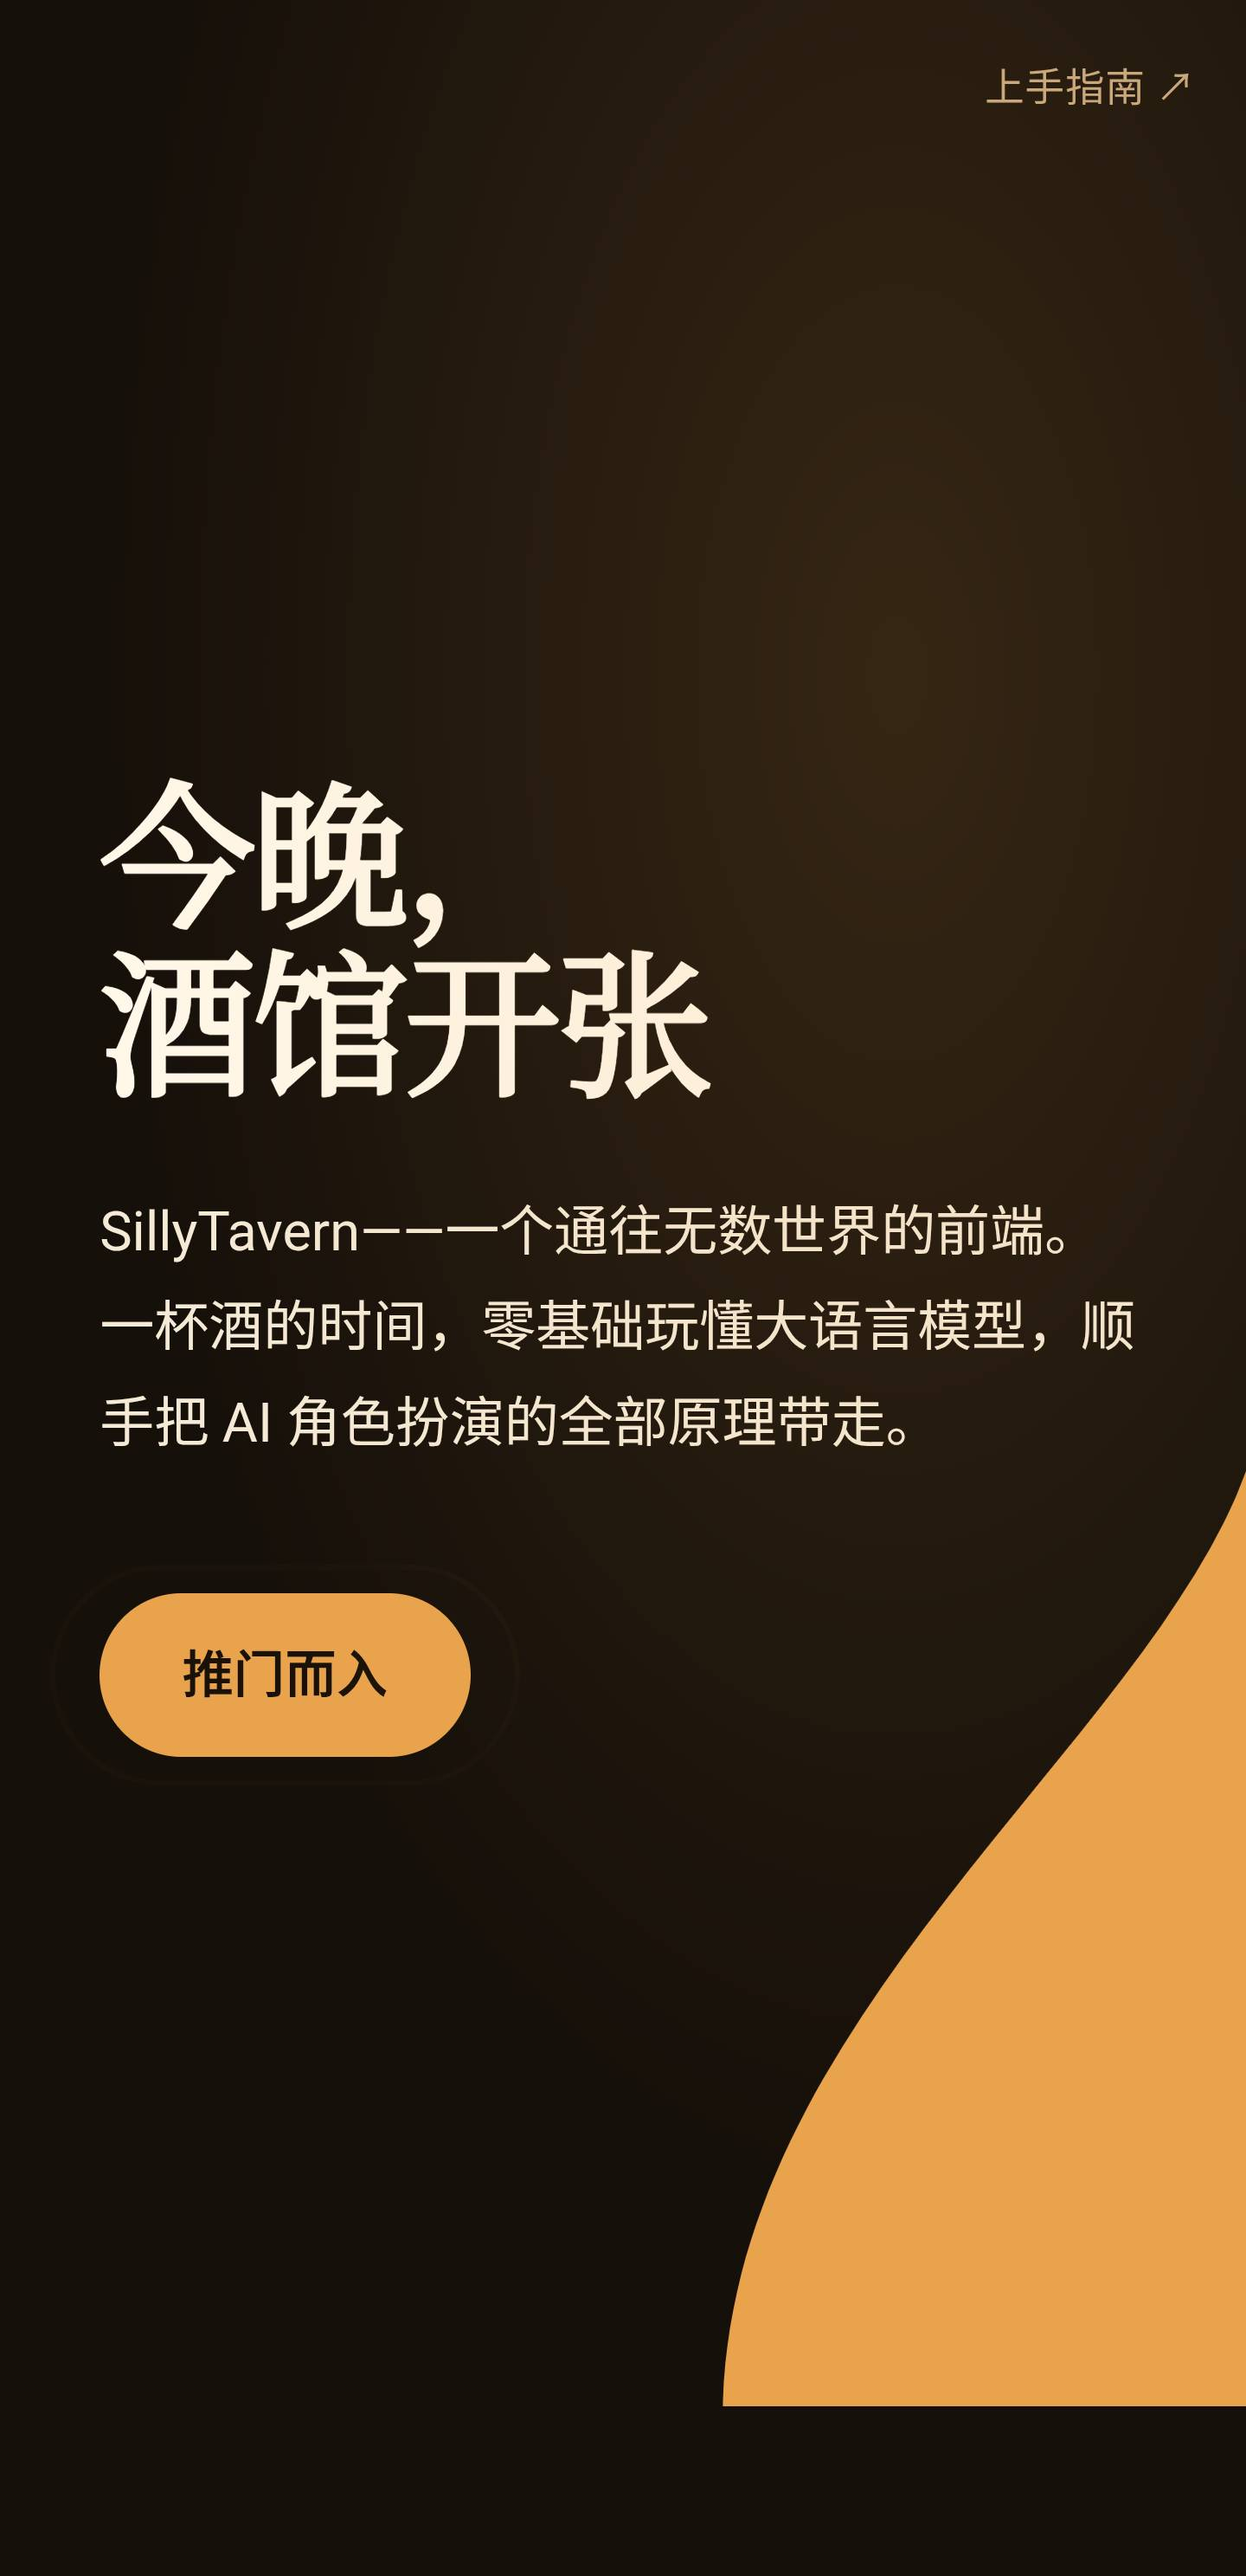
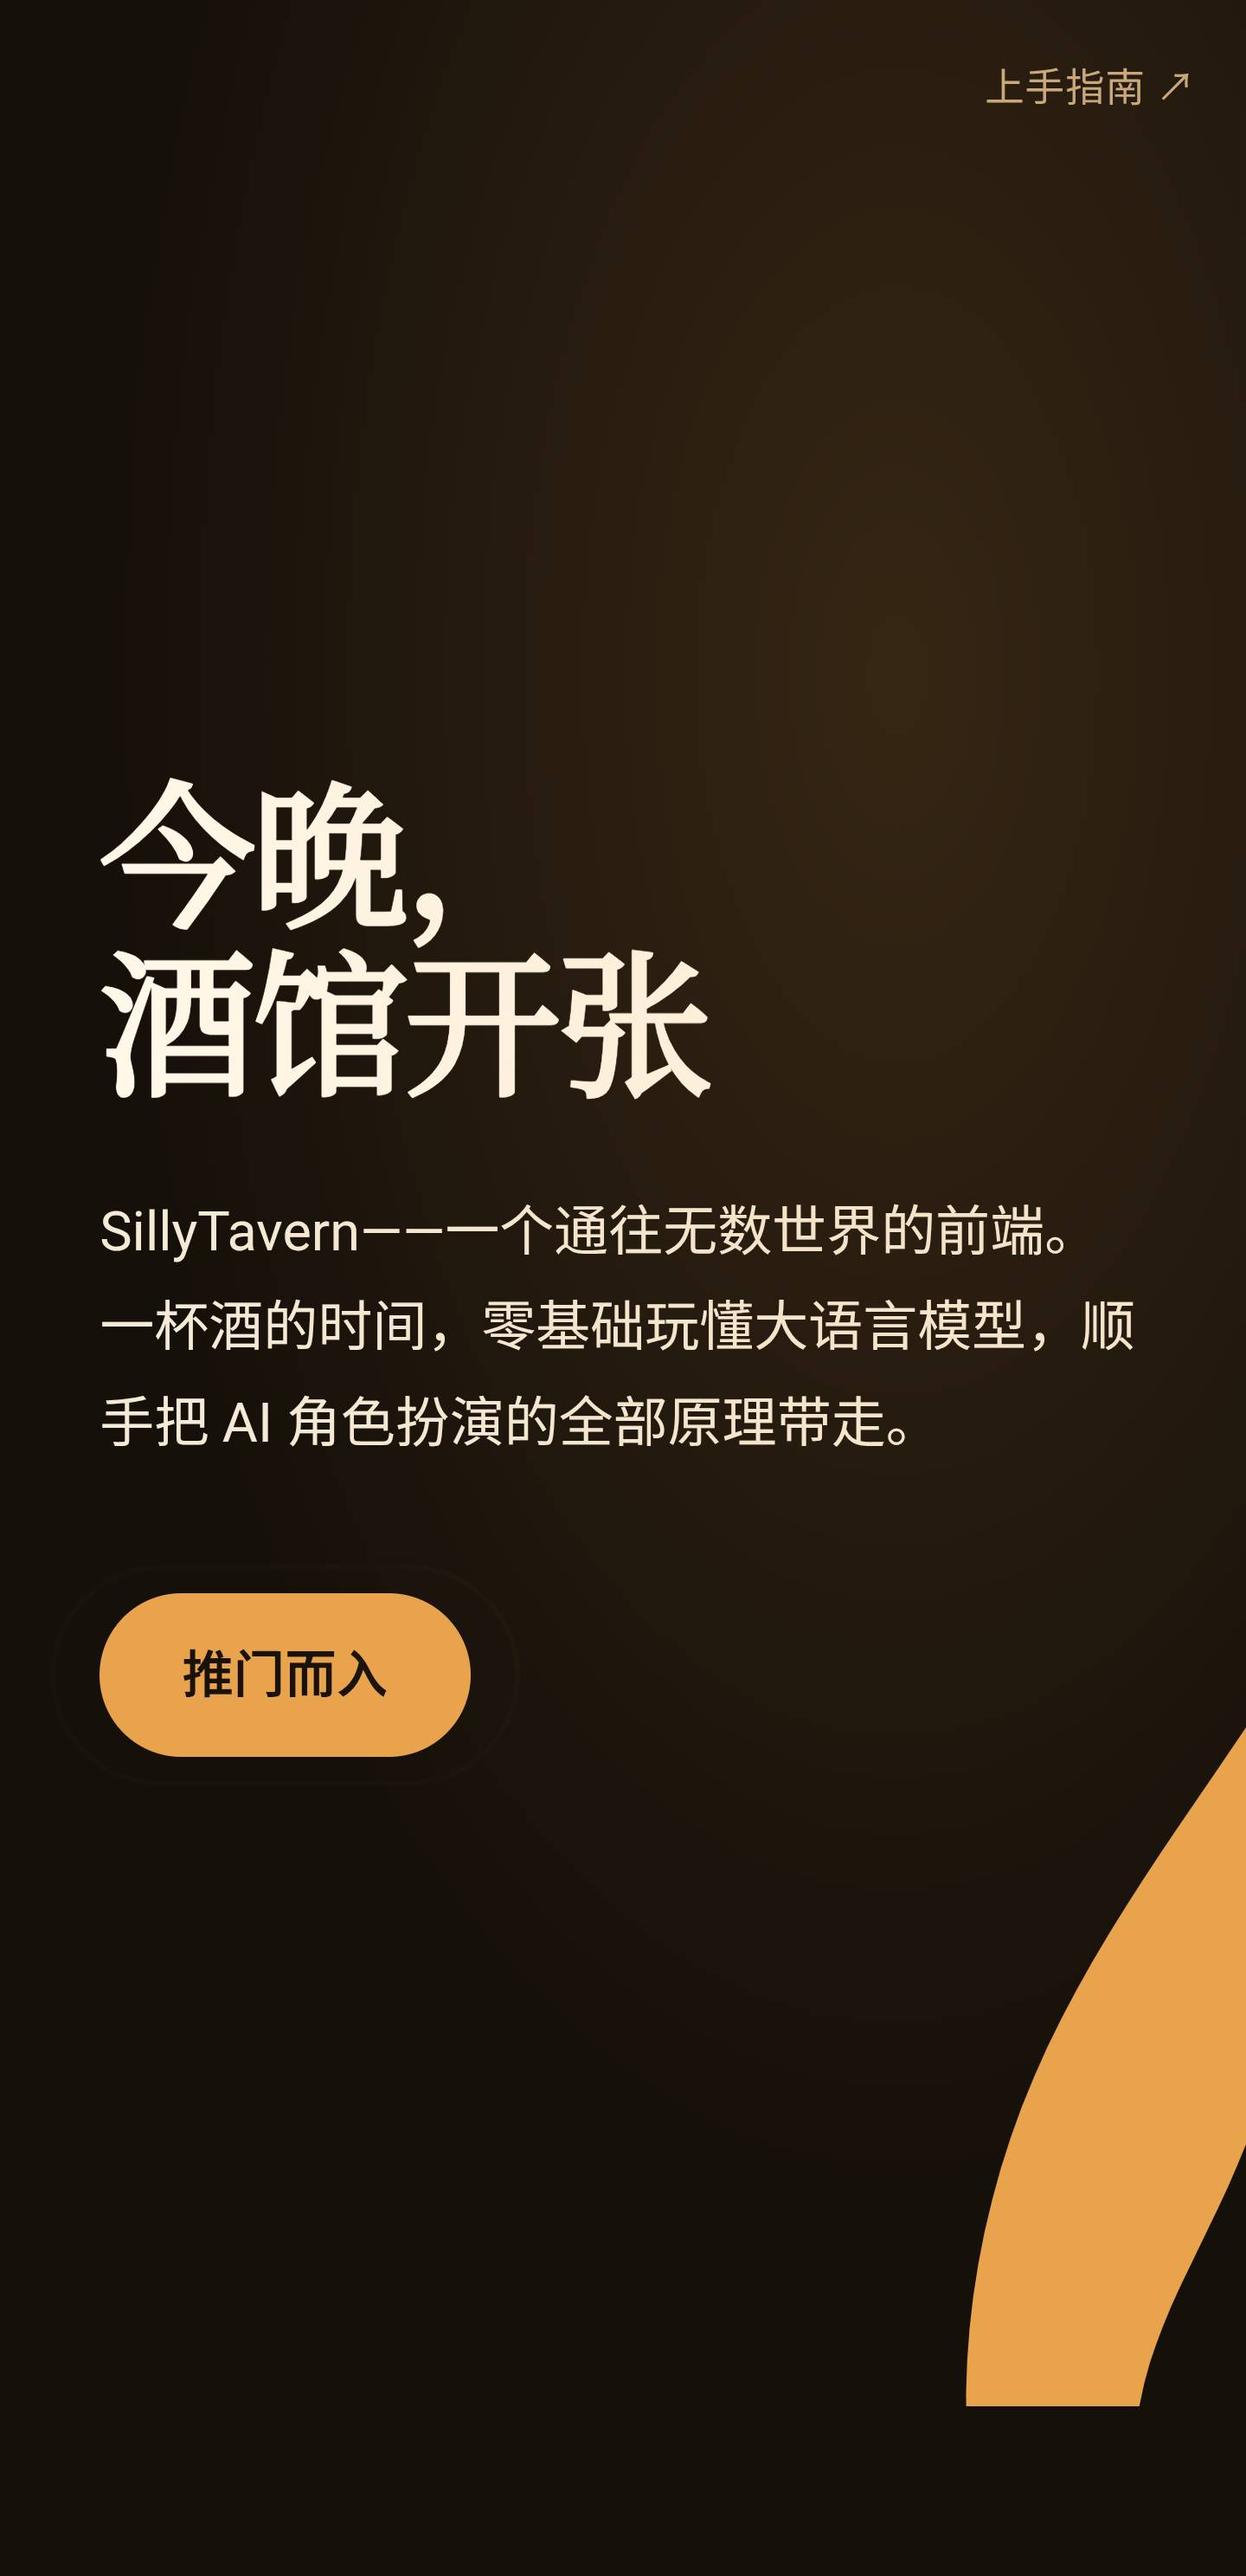
feat(web): flame motif redrawn — droplet bezier retires, candle-flame silhouette (leaning tip + waist + evenodd core) site-wide; footer candles reuse one defs path; menu clip updated; dead #flameclip removed; guide symbol synced

Changed region(s): [[0.5625, 0.5566, 1.0, 0.9587], [0.9062, 0.835, 1.0, 0.9587]]

diff --git a/web/index.html b/web/index.html
@@ -690,7 +690,8 @@ html.speaker-progress .progress { height: 5px; }
 <svg width="0" height="0" style="position:absolute" aria-hidden="true">
   <defs>
     <symbol id="flame" viewBox="0 0 100 120">
-      <path d="M50 0 C58 22 92 44 92 76 A42 44 0 1 1 8 76 C8 44 42 22 50 0 Z"/>
+      <!-- 烛焰（A 案）：尖锋侧倾 + 腰部内收 + 内焰挖孔（evenodd）——旧路径是对称水滴贝塞尔，用户裁定退役 -->
+      <path fill-rule="evenodd" d="M60 5 C61 13 65 21 70 31 C75 41 77 52 76 62 C75 77 69 93 61 105 C56 112 52 115 50 116 C42 112 34 103 30 91 C26 79 27 64 32 51 C37 38 46 27 53 16 C56 11 58 7 60 5 Z M50 54 C54 64 59 70 59 80 C59 92 55 100 50 103 C45 100 41 92 41 80 C41 70 46 64 50 54 Z"/>
     </symbol>
     <!-- 门扇材质：木板拼条 + 铁箍铆钉 + 门环 + 缝侧暗影/暖光边。左扇原样使用；右扇 scaleX(-1) 镜像后缝侧细节自动对位 -->
     <linearGradient id="doorShade" x1="0" y1="0" x2="1" y2="0">
@@ -721,11 +722,8 @@ html.speaker-progress .progress { height: 5px; }
       <rect x="182" width="18" height="420" fill="url(#doorShade)"/>
       <rect x="194" width="6" height="420" fill="url(#doorWarm)"/>
     </symbol>
-    <clipPath id="flameclip" clipPathUnits="objectBoundingBox">
-      <path d="M0.5 0 C0.58 0.183 0.92 0.367 0.92 0.633 A0.42 0.367 0 1 1 0.08 0.633 C0.08 0.367 0.42 0.183 0.5 0 Z"/>
-    </clipPath>
     <clipPath id="flameclip-sm" clipPathUnits="objectBoundingBox">
-      <path d="M0.5 0 C0.58 0.183 0.92 0.367 0.92 0.633 A0.42 0.367 0 1 1 0.08 0.633 C0.08 0.367 0.42 0.183 0.5 0 Z"/>
+      <path d="M0.6 0.0417 C0.61 0.1083 0.65 0.175 0.7 0.2583 C0.75 0.3417 0.77 0.4333 0.76 0.5167 C0.75 0.6417 0.69 0.775 0.61 0.875 C0.56 0.9333 0.52 0.9583 0.5 0.9667 C0.42 0.9333 0.34 0.8583 0.3 0.7583 C0.26 0.6583 0.27 0.5333 0.32 0.425 C0.37 0.3167 0.46 0.225 0.53 0.1333 C0.56 0.0917 0.58 0.0583 0.6 0.0417 Z"/>
     </clipPath>
   </defs>
 </svg>
@@ -1160,11 +1158,12 @@ html.speaker-progress .progress { height: 5px; }
     <div class="foot-mark" aria-hidden="true">
       <svg viewBox="0 0 100 120"><use href="#flame"/></svg>
       <svg class="candles" viewBox="0 0 310 206">
-        <g class="fl"><path d="M23 22 C25.6 28 33 33.4 33 41 A10 10.6 0 1 1 13 41 C13 33.4 20.4 28 23 22 Z" fill="currentColor"/><rect x="10" y="50" width="26" height="150" rx="5" fill="currentColor"/></g>
-        <g class="fl"><path d="M83 48 C85.6 54 93 59.4 93 67 A10 10.6 0 1 1 73 67 C73 59.4 80.4 54 83 48 Z" fill="currentColor"/><rect x="70" y="76" width="26" height="124" rx="5" fill="currentColor"/></g>
-        <g class="fl"><path d="M143 8 C145.6 14 153 19.4 153 27 A10 10.6 0 1 1 133 27 C133 19.4 140.4 14 143 8 Z" fill="currentColor"/><rect x="130" y="36" width="26" height="164" rx="5" fill="currentColor"/></g>
-        <g class="fl"><path d="M203 38 C205.6 44 213 49.4 213 57 A10 10.6 0 1 1 193 57 C193 49.4 200.4 44 203 38 Z" fill="currentColor"/><rect x="190" y="66" width="26" height="134" rx="5" fill="currentColor"/></g>
-        <g class="fl"><path d="M263 68 C265.6 74 273 79.4 273 87 A10 10.6 0 1 1 253 87 C253 79.4 260.4 74 263 68 Z" fill="currentColor"/><rect x="250" y="96" width="26" height="104" rx="5" fill="currentColor"/></g>
+        <defs><path id="cfl" fill-rule="evenodd" d="M60 5 C61 13 65 21 70 31 C75 41 77 52 76 62 C75 77 69 93 61 105 C56 112 52 115 50 116 C42 112 34 103 30 91 C26 79 27 64 32 51 C37 38 46 27 53 16 C56 11 58 7 60 5 Z M50 54 C54 64 59 70 59 80 C59 92 55 100 50 103 C45 100 41 92 41 80 C41 70 46 64 50 54 Z"/></defs>
+        <g class="fl"><use href="#cfl" fill="currentColor" transform="translate(9.5 20.7) scale(.27)"/><rect x="10" y="50" width="26" height="150" rx="5" fill="currentColor"/></g>
+        <g class="fl"><use href="#cfl" fill="currentColor" transform="translate(69.5 46.7) scale(.27)"/><rect x="70" y="76" width="26" height="124" rx="5" fill="currentColor"/></g>
+        <g class="fl"><use href="#cfl" fill="currentColor" transform="translate(129.5 6.7) scale(.27)"/><rect x="130" y="36" width="26" height="164" rx="5" fill="currentColor"/></g>
+        <g class="fl"><use href="#cfl" fill="currentColor" transform="translate(189.5 36.7) scale(.27)"/><rect x="190" y="66" width="26" height="134" rx="5" fill="currentColor"/></g>
+        <g class="fl"><use href="#cfl" fill="currentColor" transform="translate(249.5 66.7) scale(.27)"/><rect x="250" y="96" width="26" height="104" rx="5" fill="currentColor"/></g>
       </svg>
     </div>
     <div class="foot-links">

diff --git a/guide/index.html b/guide/index.html
@@ -11,7 +11,7 @@
   <link rel="stylesheet" href="assets/guide.css?v=4" />
 </head>
 <body>
-  <svg style="display:none" aria-hidden="true"><symbol id="flame" viewBox="0 0 100 120"><path d="M50 0 C58 22 92 44 92 76 A42 44 0 1 1 8 76 C8 44 42 22 50 0 Z"/></symbol></svg>
+  <svg style="display:none" aria-hidden="true"><symbol id="flame" viewBox="0 0 100 120"><path fill-rule="evenodd" d="M60 5 C61 13 65 21 70 31 C75 41 77 52 76 62 C75 77 69 93 61 105 C56 112 52 115 50 116 C42 112 34 103 30 91 C26 79 27 64 32 51 C37 38 46 27 53 16 C56 11 58 7 60 5 Z M50 54 C54 64 59 70 59 80 C59 92 55 100 50 103 C45 100 41 92 41 80 C41 70 46 64 50 54 Z"/></symbol></svg>
   <div class="wrap">
 
     <!-- ========== 头部 ========== -->

diff --git a/notes/design-v2-critique.md b/notes/design-v2-critique.md
@@ -714,3 +714,24 @@ noscript/reduced-motion/打印三处补 caption 直落。
 测试坑再录两条：①openchamber_web 面板多 tab 时 scroll/capture 落不同 tab（localhost≠
 127.0.0.1），截图全是假象——单 tab 串行仍是铁律；②真机冷网直落 #brain 时锚点跳转晚于
 3s 安全网，截图会拍到「未揭幕的空带」——先查运行态再判断，勿当产品 bug。
+
+## ROUND 12 · 全站焰形重绘：水滴贝塞尔退役 → 烛焰 A 案（2026-10-31，用户裁定）
+
+用户裁定：焰形太像水滴。病因：`#flame` symbol 就是对称水滴贝塞尔（尖顶 M50 0 + 鼓肚
+C58 22 92 44 92 76 + 底弧 A42 44），页脚五支小蜡烛是同款公式微缩，菜单照片裁切
+flameclip-sm 同款。三候选离线目检（多尺寸渲染：hero 230px / icon 17px / 页脚蜡烛
+26px 奶油 on 琥珀）→ 用户选 **A 烛焰**（微侧倾+腰部内收+内焰挖孔）。
+
+实施（一次替换全站 29 处 use 引用自动生效）：
+① symbol#flame 换新路径，fill-rule="evenodd" 内焰挖孔（孔透底色=烛芯暗核，hero 纯色
+  填充/页脚 on-accent 填充两种场景都成立）；
+② 页脚蜡烛五条微缩水滴路径 → defs#cfl + use + translate/scale（s=.27，焰底与烛顶
+  重叠 2px 与旧版一致；flick/gust 摆动 transform-origin 50% 100% 不受影响）；
+③ flameclip-sm 换焰形实心剪影（照片裁切不带挖孔——64px 菜单图打孔像渲染 bug）；
+④ 删除已无引用的大号 #flameclip（幕景横幅改造后退役）；
+⑤ guide/index.html 的同款 symbol 同步替换（guid 页保持同一母题）。
+侧倾方向朝右：封面焰在右栏，尖锋向右上角开放，与左栏文字平衡。
+
+验证：lint 0 FAIL / inspect 0 FAIL；桌面封面大焰（1200×1200 级）烛感成立、暗核透底；
+菜单焰形照片裁切 ✓；页脚大焰+五支小焰（奶油挖孔透琥珀）✓；Pixel 真机门全流程回归 ✓
+（tick 1 / scrollY 0 / 拖拽 9）。本次纯形状替换，零 JS、零布局、零新图。
